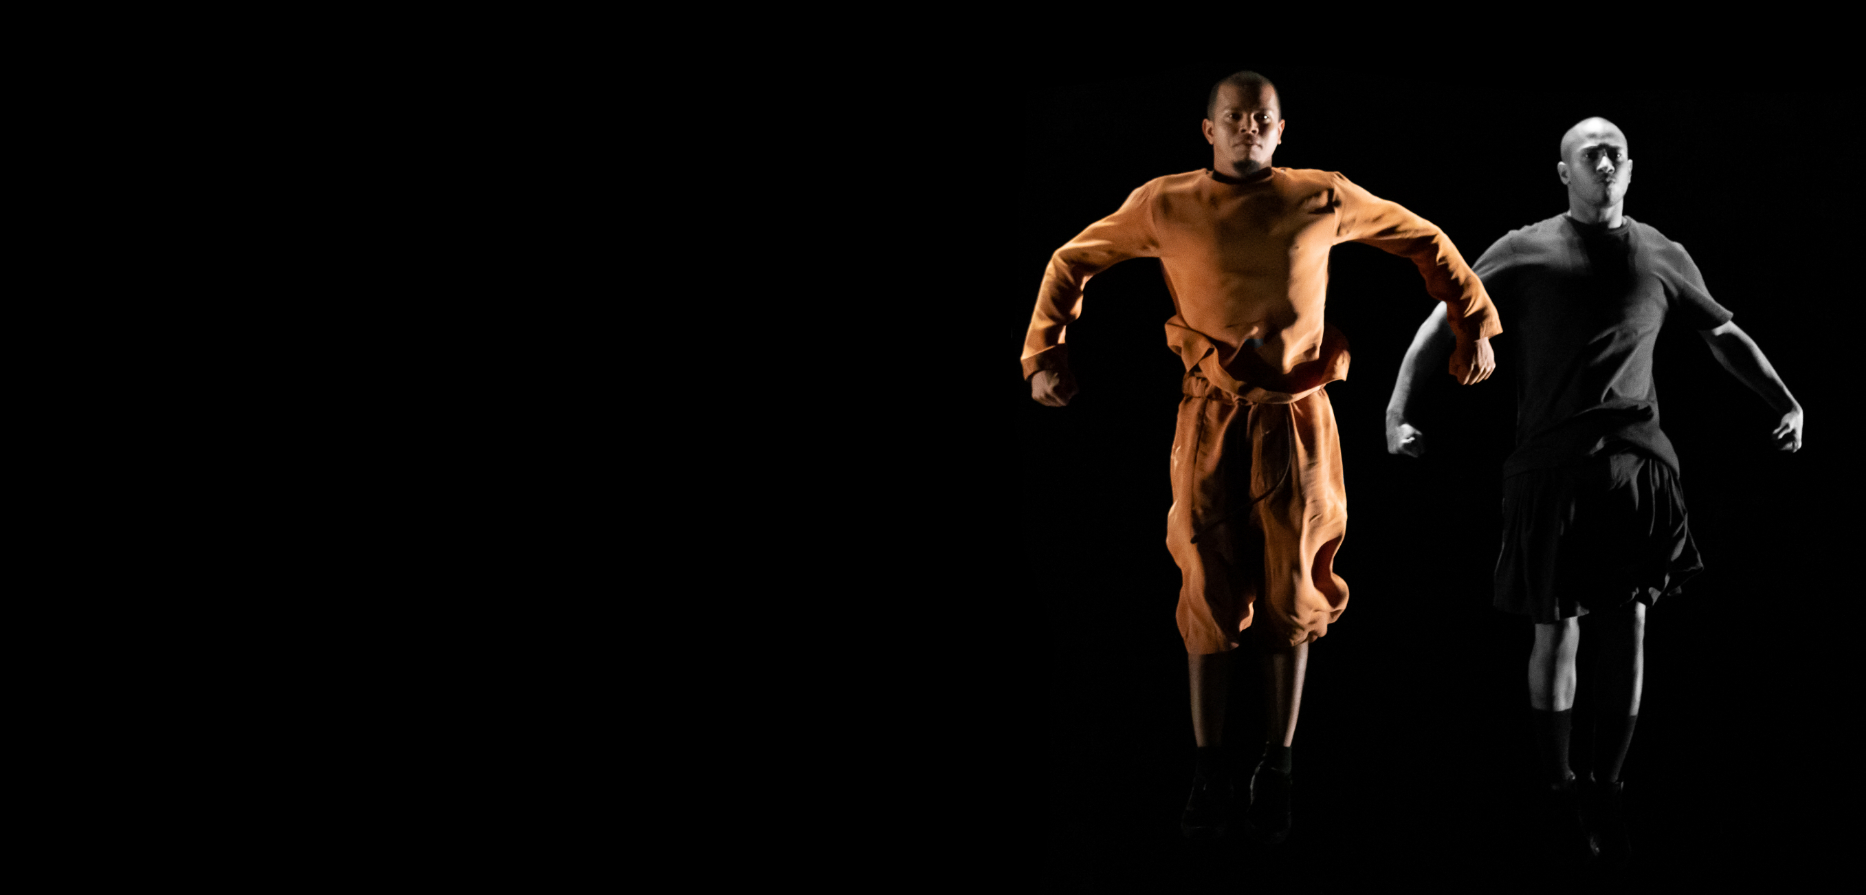
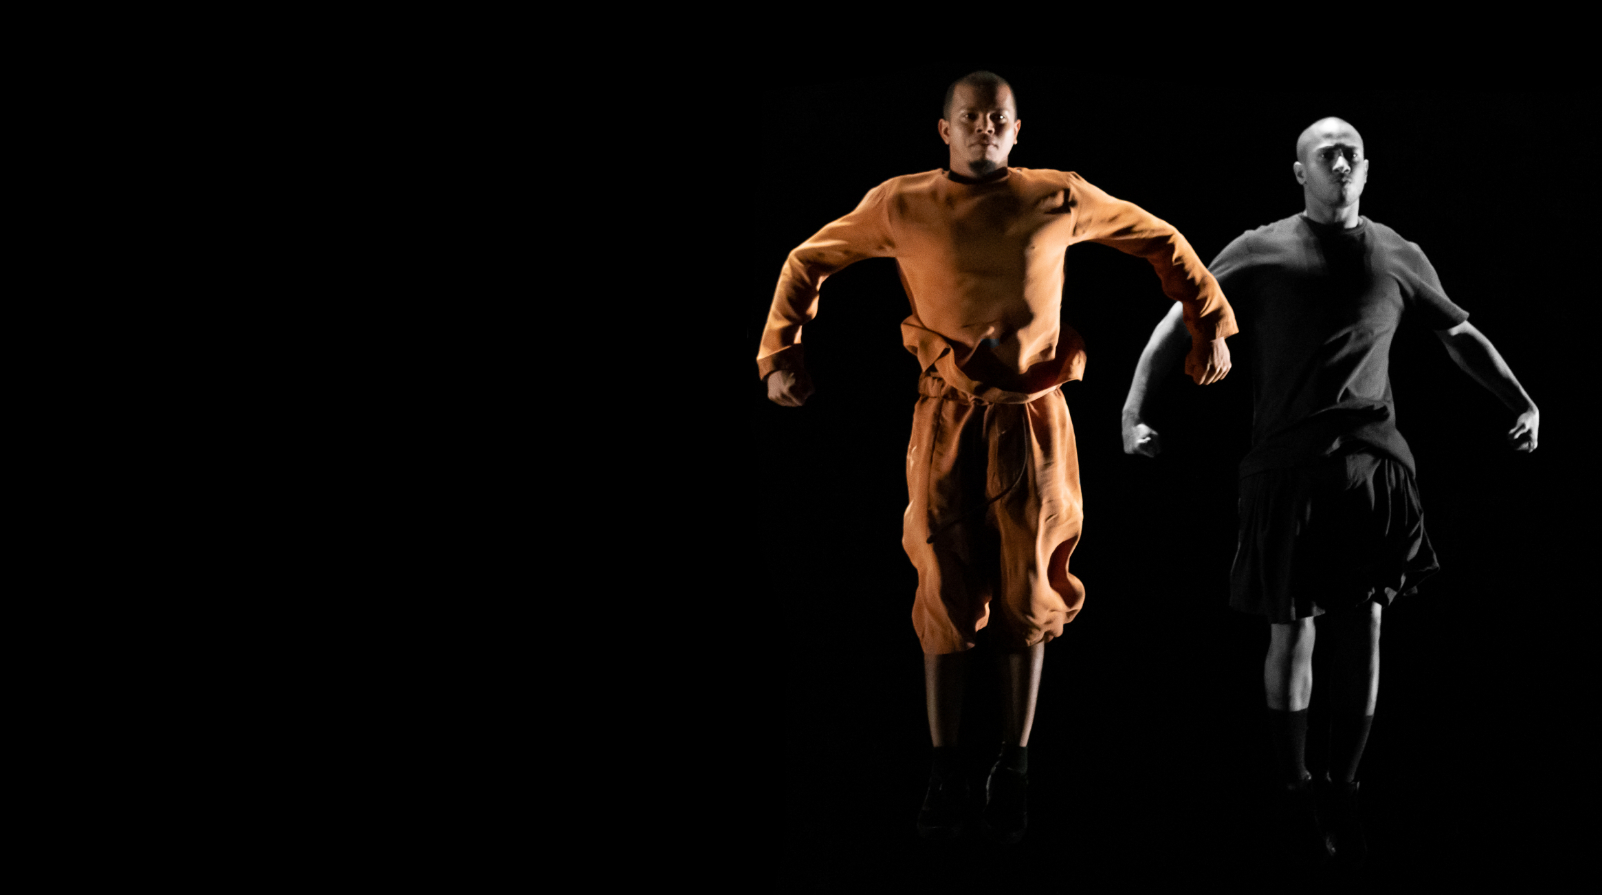
refactor: hero styling

Changed region(s): [[0.4682, 0.0603, 0.9675, 0.8447], [0.8115, 0.8447, 0.8427, 0.8749]]

diff --git a/public/wp-content/themes/aaron/style.css b/public/wp-content/themes/aaron/style.css
@@ -559,6 +559,7 @@ table {
   }
   #news article img {
     width: 100%;
+    height: auto;
   }
   #news article .text_news {
     text-align: left;
@@ -603,11 +604,7 @@ table {
     background-size: cover;
     background-repeat: no-repeat;
     height: 90vh;
-    padding: 1rem;
     position: relative;
-  }
-  header img {
-    width: 100%;
   }
   header .flex {
     display: flex;
@@ -655,13 +652,9 @@ table {
   header {
     font-family: "Source Sans Pro", sans-serif;
     background-image: url("./images/aaron_1.jpg");
-    background-position: -50px 0px;
+    background-position: -120px 0px;
     height: 558px;
-    padding: 1rem;
     position: relative;
-  }
-  header img {
-    width: 100%;
   }
   header #aaronLogoLink {
     text-decoration: none;
@@ -679,7 +672,7 @@ table {
     font-size: 38px;
     font-weight: 300;
     position: absolute;
-    right: 3rem;
+    right: 1rem;
     bottom: 6rem;
   }
   header #heroText h2 {

diff --git a/src/sass/header.scss b/src/sass/header.scss
@@ -2,16 +2,10 @@
 	header {
 		font-family: "Source Sans Pro", sans-serif;
 		background-image: url("./images/aaron_5.jpg");
-		// background-position: -310px 0px;
 		background-size: cover;
 		background-repeat: no-repeat;
 		height: 90vh;
-		padding: 1rem;
 		position: relative;
-
-		img {
-			width: 100%;
-		}
 
 		.flex {
 			display: flex;
@@ -64,14 +58,9 @@
 	header {
 		font-family: "Source Sans Pro", sans-serif;
 		background-image: url("./images/aaron_1.jpg");
-		background-position: -50px 0px;
+		background-position: -120px 0px;
 		height: 558px;
-		padding: 1rem;
 		position: relative;
-
-		img {
-			width: 100%;
-		}
 
 		#aaronLogoLink {
 			text-decoration: none;
@@ -91,7 +80,7 @@
 			font-size: 38px;
 			font-weight: 300;
 			position: absolute;
-			right: 3rem;
+			right: 1rem;
 			bottom: 6rem;
 			h2 {
 				margin-bottom: 1rem;

diff --git a/src/sass/news.scss b/src/sass/news.scss
@@ -94,6 +94,7 @@
 			}
 			img {
 				width: 100%;
+				height: auto;
 			}
 			.text_news {
 				text-align: left;
